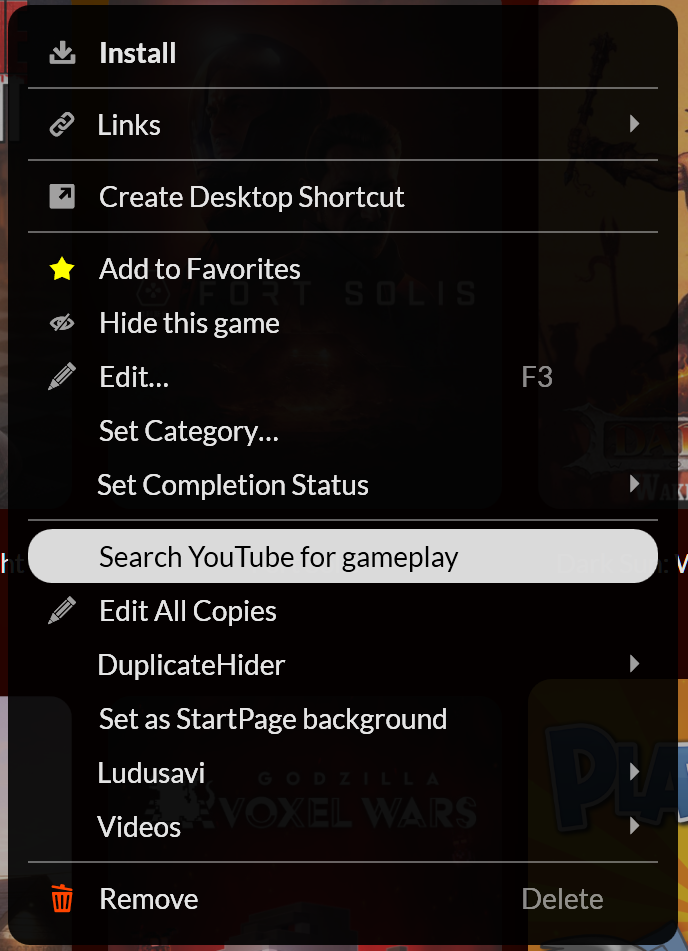
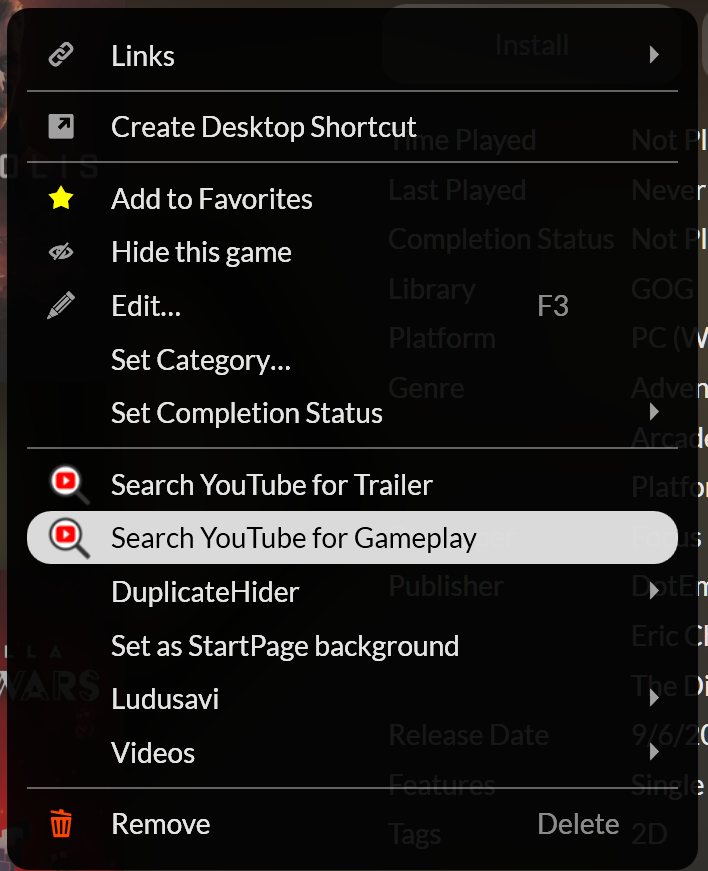
Adding trailer search

diff --git a/localization/en_US.xaml b/localization/en_US.xaml
@@ -1,5 +1,5 @@
 <ResourceDictionary xmlns="http://schemas.microsoft.com/winfx/2006/xaml/presentation"
                     xmlns:x="http://schemas.microsoft.com/winfx/2006/xaml">
-  <!-- Localization strings for YouTubeGameplaySearch -->
-  <sys:String x:Key="YouTubeGameplaySearch_SearchYouTube" xmlns:sys="clr-namespace:System;assembly=mscorlib">Search YouTube for gameplay</sys:String>
+  <sys:String x:Key="YouTubeSearchSearchYouTubeGameplay" xmlns:sys="clr-namespace:System;assembly=mscorlib">Search YouTube for gameplay</sys:String>
+  <sys:String x:Key="YouTubeSearchSearchYouTubeTrailer" xmlns:sys="clr-namespace:System;assembly=mscorlib">Search YouTube for trailer</sys:String>
 </ResourceDictionary>

diff --git a/YouTubeSearch.cs b/YouTubeSearch.cs
@@ -1,5 +1,4 @@
 using Playnite.SDK;
-using Playnite.SDK.Models;
 using Playnite.SDK.Plugins;
 using System;
 using System.Collections.Generic;
@@ -7,13 +6,13 @@ using System.Diagnostics;
 using System.IO;
 using System.Reflection;
 
-namespace YouTubeGameplaySearch
+namespace YouTubeSearch
 {
-    public class YouTubeGameplaySearch : GenericPlugin
+    public class YouTubeSearch : GenericPlugin
     {
         public override Guid Id { get; } = Guid.Parse("E3C64309-3175-4740-8802-18118001602B");
 
-        public YouTubeGameplaySearch(IPlayniteAPI api) : base(api)
+        public YouTubeSearch(IPlayniteAPI api) : base(api)
         {
             Properties = new GenericPluginProperties
             {
@@ -23,24 +22,35 @@ namespace YouTubeGameplaySearch
 
         public override IEnumerable<GameMenuItem> GetGameMenuItems(GetGameMenuItemsArgs args)
         {
+            string descGameplay = GetDescription("YouTubeSearchSearchYouTubeGameplay", "Search YouTube for Gameplay");
+            string descTrailer = GetDescription("YouTubeSearchSearchYouTubeTrailer", "Search YouTube for Trailer");
+            
+            yield return GetMenuItem(descTrailer, "trailer");
+            yield return GetMenuItem(descGameplay, "gameplay");
+        }
+
+        private string GetDescription(string key, string fallback)
+        {
             string desc = null;
             try
             {
-                desc = PlayniteApi.Resources.GetString("YouTubeGameplaySearch_SearchYouTube");
+                desc = PlayniteApi.Resources.GetString(key);
             }
             catch
             {
                 // ignore and fallback
             }
-
-            if (string.IsNullOrEmpty(desc))
+            if (string.IsNullOrEmpty(desc) || (desc.StartsWith("<!") && desc.EndsWith("!>")))
             {
-                desc = "Search YouTube for Gameplay";
+                desc = fallback;
             }
-            
+            return desc;
+        }
+
+        private GameMenuItem GetMenuItem(string desc, string keyword)
+        { 
             string pluginFolder = Path.GetDirectoryName(Assembly.GetExecutingAssembly().Location);
-            string iconPath = Path.Combine(pluginFolder, "icon_32.png");
-            yield return new GameMenuItem
+            return new GameMenuItem
             {
                 Description = desc,
                 Icon = Path.Combine(pluginFolder, "icon_32.png"), 
@@ -48,17 +58,18 @@ namespace YouTubeGameplaySearch
                 {
                     foreach (var game in actionArgs.Games)
                     {
-                        SearchYouTube(game.Name);
+                        SearchYouTube(game.Name, keyword);
                     }
                 }
             };
         }
 
-        private void SearchYouTube(string gameName)
+
+        private void SearchYouTube(string gameName, string keyword)
         {
             try
             {
-                var query = Uri.EscapeDataString(gameName + " gameplay");
+                var query = Uri.EscapeDataString(gameName + " " + keyword);
                 var url = $"https://www.youtube.com/results?search_query={query}";
 
                 Process.Start(new ProcessStartInfo

diff --git a/README.md b/README.md
@@ -1,8 +1,8 @@
-![YouTube Gameplay Search](icon_128.png)
+![YouTube Search](icon_128.png)
 
-# YouTube Gameplay Search — Playnite Extension
+# YouTube Search — Playnite Extension
 
-YouTube Gameplay Search adds a quick way to find gameplay videos for your games directly from Playnite.
+YouTube Search adds a quick way to find gameplay and trailer videos for your games directly from Playnite.
 
 ![preview](assets/image.png)
 
@@ -12,5 +12,5 @@ YouTube Gameplay Search adds a quick way to find gameplay videos for your games 
 - **Lightweight:** No external service besides YouTube is required.
 
 **Usage**
-- In Playnite, right click a game from the games list (or inside `More` from the game details page) and select the `Search YouTube for gameplay` action 
+- In Playnite, right click a game from the games list (or inside `More` from the game details page) and select the `Search YouTube for gameplay/trailer` actions
 - The extension opens a list of YouTube results matching the game's title.
